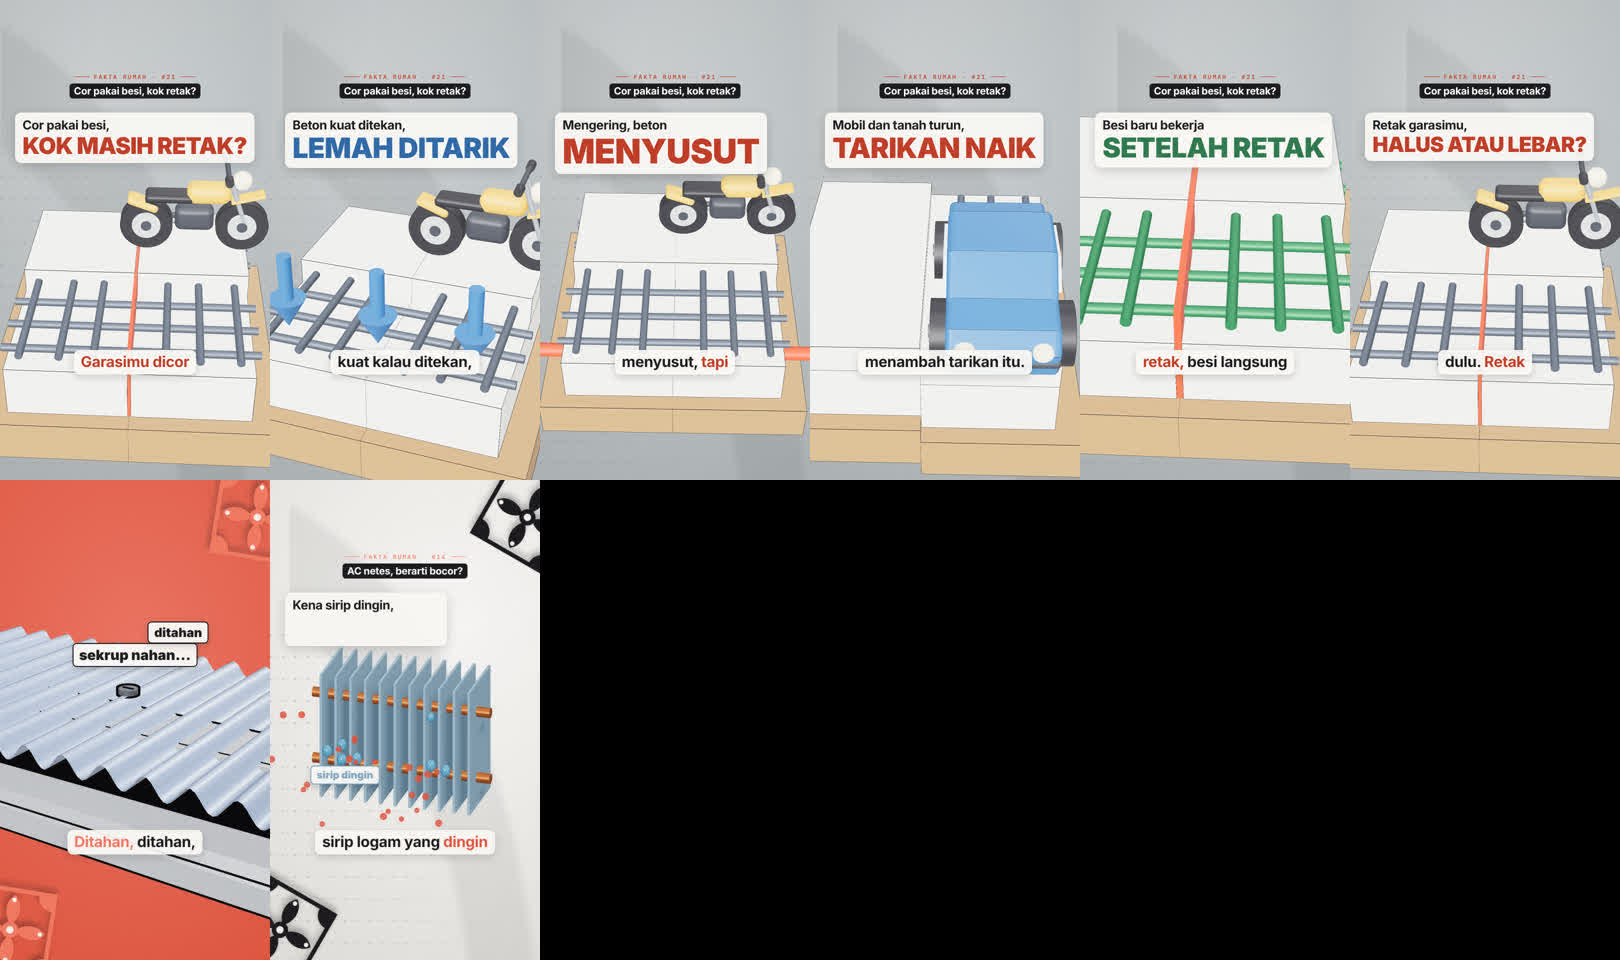
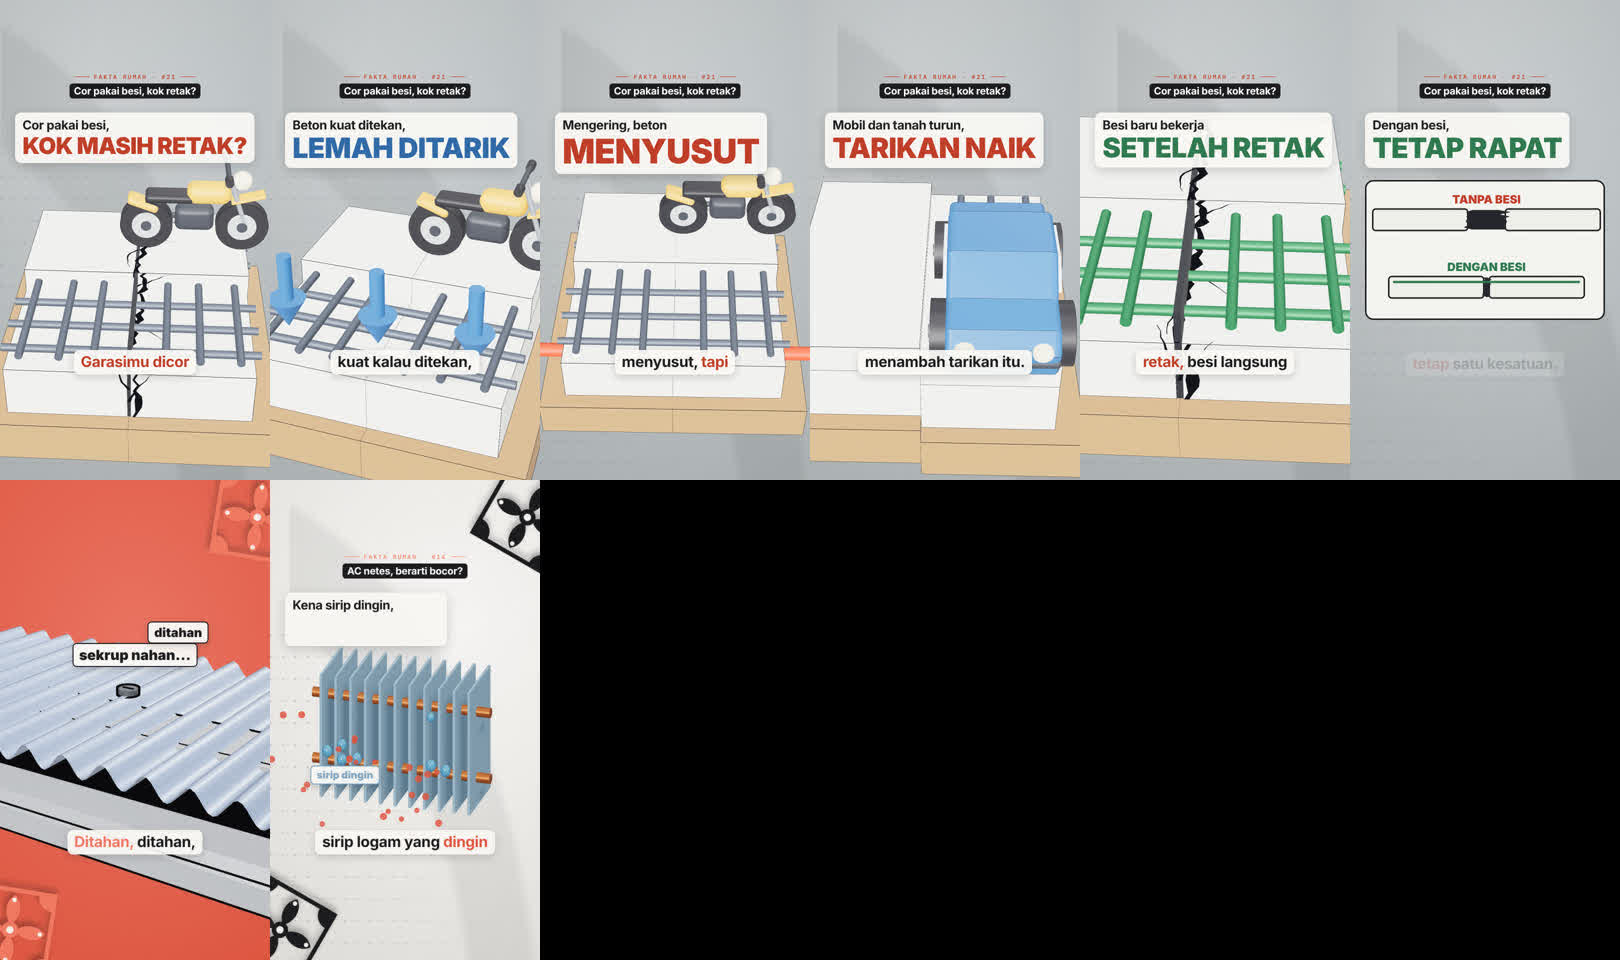
R4 #21: retak bergerigi ala retak tembok
Claude-Session: https://claude.ai/code/session_0198S32J9BVVNeoCqHWz7Xoc

Changed region(s): [[0.8333, 0.0938, 1.0, 0.5], [0.7099, 0.1562, 0.7716, 0.4062], [0.0617, 0.25, 0.0926, 0.4375]]

diff --git a/remotion/src/kit/objek/Retak.tsx b/remotion/src/kit/objek/Retak.tsx
@@ -1,0 +1,53 @@
+// Kit Penjelasan / objek: retak bergerigi ala retak tembok (R4 #21). Garis gelap berlebar berubah + cabang halus, datar (bukan tekstur foto).
+// Bentuk dibuat deterministik (tanpa Math.random) supaya sama di setiap frame.
+import {useMemo} from 'react';
+import * as THREE from 'three';
+
+const h = (i: number) => { const x = Math.sin(i * 127.1 + 311.7) * 43758.5453; return x - Math.floor(x); };
+const WARNA = '#25262b';
+
+/** poligon retak sepanjang sumbu Y dari y0 ke y1, di sekitar x = cx. w = lebar rata-rata. */
+function poligon(y0: number, y1: number, w: number, seed: number, cx = 0, amp = 0.085): THREE.Shape {
+  const n = Math.max(8, Math.round(Math.abs(y1 - y0) / 0.07));
+  let c = 0;
+  const L: [number, number][] = [], R: [number, number][] = [];
+  for (let i = 0; i <= n; i++) {
+    const k = i / n, y = y0 + (y1 - y0) * k;
+    c += (h(i + seed) - 0.5) * 0.11; c = Math.max(-amp, Math.min(amp, c * 0.92));
+    const taper = 0.45 + 0.55 * Math.sin(Math.PI * Math.min(1, 0.15 + k * 0.85));
+    const wi = Math.max(0.006, w * (0.55 + 0.9 * h(i * 3 + seed + 7)) * taper);
+    L.push([cx + c - wi / 2, y]); R.push([cx + c + wi / 2, y]);
+  }
+  const s = new THREE.Shape();
+  L.forEach(([x, y], i) => (i ? s.lineTo(x, y) : s.moveTo(x, y)));
+  R.reverse().forEach(([x, y]) => s.lineTo(x, y));
+  s.closePath();
+  return s;
+}
+/** cabang halus: dari titik (x,y) menuju arah sudut a, panjang len */
+function cabang(x: number, y: number, a: number, len: number, w: number, seed: number): THREE.Shape {
+  const n = 7, P: [number, number][] = [];
+  let px = x, py = y, ang = a;
+  for (let i = 0; i <= n; i++) { P.push([px, py]); ang += (h(i + seed) - 0.5) * 0.9; px += Math.cos(ang) * len / n; py += Math.sin(ang) * len / n; }
+  const s = new THREE.Shape();
+  P.forEach(([qx, qy], i) => { const t = 1 - i / n, ww = Math.max(0.004, w * t); (i ? s.lineTo(qx - ww / 2, qy) : s.moveTo(qx - ww / 2, qy)); });
+  [...P].reverse().forEach(([qx, qy], j) => { const i = n - j, t = 1 - i / n, ww = Math.max(0.004, w * t); s.lineTo(qx + ww / 2, qy); });
+  s.closePath();
+  return s;
+}
+
+const Bentuk: React.FC<{shape: THREE.Shape}> = ({shape}) => {
+  const geo = useMemo(() => new THREE.ShapeGeometry(shape), [shape]);
+  return <mesh geometry={geo}><meshBasicMaterial color={WARNA} side={THREE.DoubleSide} polygonOffset polygonOffsetFactor={-3} polygonOffsetUnits={-3} /></mesh>;
+};
+
+/** Satu bidang retak. bidang 'atas': permukaan datar (sumbu panjang = z dari z0 ke z1, y = tinggi). 'muka': dinding menghadap +z (sumbu panjang = y dari y0 ke y1, z = posisi). */
+export const Retak: React.FC<{g: number; bidang: 'atas' | 'muka'; a0: number; a1: number; pos: number; seed?: number}> = ({g, bidang, a0, a1, pos, seed = 1}) => {
+  const w = 0.022 + g * 1.05;
+  const utama = useMemo(() => poligon(a0, a1, w, seed), [a0, a1, w, seed]);
+  const mid = (a0 + a1) / 2, span = Math.abs(a1 - a0);
+  const cb = useMemo(() => g > 0.02 ? [cabang(0.0, a0 + (a1 - a0) * 0.35, 0.9, 0.42, 0.03, seed + 11), cabang(0.0, a0 + (a1 - a0) * 0.65, Math.PI - 0.8, 0.36, 0.026, seed + 23)] : [], [g > 0.02, a0, a1, seed]);
+  const isi = <>{<Bentuk shape={utama} />}{cb.map((c, i) => <Bentuk key={i} shape={c} />)}</>;
+  if (bidang === 'atas') return <group position={[0, pos, 0]} rotation={[-Math.PI / 2, 0, 0]}><group scale={[1, -1, 1]}>{isi}</group></group>;
+  return <group position={[0, 0, pos]}>{isi}</group>;
+};

diff --git a/remotion/src/kit/objek/Pelat.tsx b/remotion/src/kit/objek/Pelat.tsx
@@ -4,6 +4,7 @@
 import {Bx, Cy} from '../prim';
 import type {V3} from '../waktu';
 import {Mobil, Motor} from './Kendaraan';
+import {Retak} from './Retak';
 
 export const BETON = '#f1f1ec', TANAH = '#a07850', BESI = '#59616d', MOTOR = '#e9a23b'; // motor kuning-jingga (beda dari mobil biru)
 const W = 2.2, D = 2.4, HL = 0.5, HU = 0.25, SOIL = 0.4;
@@ -47,8 +48,20 @@ export const Pelat: React.FC<PelatP> = ({warna, gap = 0, glow = 0, meshY, pour =
       {/* tanah */}
       <Bx p={[-(W + 0.5) / 4, -soilH / 2 - 0.01, 0]} s={[(W + 0.5) / 2, soilH, D + 0.3]} c={TANAH} />
       <Bx p={[(W + 0.5) / 4, -soilH / 2 - 0.01 - drop, 0]} s={[(W + 0.5) / 2, soilH, D + 0.3]} c={TANAH} />
-      {/* retak: celah berwarna koral */}
-      {g > 0 && <Bx p={[0, (HL + HU) / 2 * pour - drop / 2, 0]} s={[g, (HL + HU) * pour + drop, D - 0.01]} c={warna.accent} edge={false} />}
+      {/* retak: celah gelap + retak bergerigi ala retak tembok di permukaan atas, undakan, dan muka depan (R4) */}
+      {g > 0 && <Bx p={[0, (HL + HU) / 2 * pour - drop / 2, 0]} s={[g, (HL + HU) * pour + drop, D - 0.01]} c="#25262b" edge={false} />}
+      {g > 0 && pour > 0.99 && (
+        <group>
+          {penuh ? <Retak g={g} bidang="atas" a0={-D / 2} a1={D / 2} pos={lowH + upH + 0.004} seed={3} /> : (
+            <group>
+              <Retak g={g} bidang="atas" a0={-D / 2} a1={0} pos={lowH + upH + 0.004} seed={3} />
+              <Retak g={g} bidang="atas" a0={0} a1={D / 2} pos={lowH + 0.004} seed={9} />
+              <group position={[0, 0, 0.004]}><Retak g={g} bidang="muka" a0={lowH} a1={lowH + upH} pos={0} seed={5} /></group>
+            </group>
+          )}
+          <Retak g={g} bidang="muka" a0={0} a1={lowH + (penuh ? upH : 0)} pos={D / 2 + 0.004} seed={7} />
+        </group>
+      )}
       {block(-1)}{block(1)}
       {/* jaring besi: batang sejajar x menyeberangi retak; batang sejajar z menempel di tiap blok */}
       {mesh && (

diff --git a/remotion/src/v21/Video21.tsx b/remotion/src/v21/Video21.tsx
@@ -12,11 +12,17 @@ export const V21_FRAMES = Math.ceil(V21_END * FPS);
 export const PL = PALET.batu;
 const B = (data as unknown as DataVideo).beats;
 
+// celah retak bergerigi (kiri-kanan tidak lurus), lebar rata-rata = gap
+const zig = (gap: number) => {
+  const n = 9, L: string[] = [], R: string[] = [];
+  for (let i = 0; i <= n; i++) { const y = 4 + (78 * i) / n, j = Math.sin(i * 2.3) * 5 + (i % 2 ? 4 : -4), w = Math.max(3, gap * (0.7 + 0.5 * Math.abs(Math.sin(i * 1.7)))); L.push(`${-w / 2 + j},${y}`); R.unshift(`${w / 2 + j},${y}`); }
+  return [...L, ...R].join(' ');
+};
 const Penampang: React.FC<{x: number; y: number; gap: number; besi: boolean; label: string; color: string; p: number}> = ({x, y, gap, besi, label, color, p}) => (
   <g opacity={p} transform={`translate(${x} ${y + (1 - p) * 30})`}>
     <rect x={-380 - gap / 2} y={0} width={380} height={86} rx={12} fill="#f1f1ec" stroke={INK} strokeWidth={6} />
     <rect x={gap / 2} y={0} width={380} height={86} rx={12} fill="#f1f1ec" stroke={INK} strokeWidth={6} />
-    <rect x={-gap / 2} y={4} width={gap} height={78} fill={PL.accent} opacity={0.9} />
+    <polygon points={zig(gap)} fill="#25262b" />
     {besi && <line x1={-370} y1={22} x2={370} y2={22} stroke={PL.good} strokeWidth={9} strokeLinecap="round" />}
     <text x={0} y={-22} textAnchor="middle" fontFamily="Inter" fontWeight={900} fontSize={46} fill={color}>{label}</text>
   </g>

diff --git a/checklist/v21.md b/checklist/v21.md
@@ -57,3 +57,4 @@
 - R1 (18 Nov, "oke, berikan juga seperti mobil atau motor atau benda di atas beton agar orang lebih memahami"). Tafsir: tambahkan kendaraan (motor di sisi belakang pelat sebagai penanda "ini lantai garasi", mobil penuh di beat 'sebab' yang menekan pelat) sebagai properti di atas beton; pelat tetap objek utama, kendaraan berwarna biru = beban. Status: SELESAI dikerjakan (motor tampak samping di separuh belakang pelat pada beat hook/masalah/tarik/susut/tanya; mobil masuk dan menekan pelat di beat 'sebab'; slab diturunkan di layar supaya kendaraan tidak tertutup kartu judul); menunggu ACC moodboard.
 - R2 (18 Nov, "apakah bentuk motor dan mobil bisa kamu perbaiki lebih baik lagi?"). Tafsir: kendaraan lebih mudah dikenali dan tetap gaya channel (membulat, warna datar, biru = beban): mobil berprofil samping dengan kap, kabin, kaca, lampu; motor dengan roda, garpu, setang, tangki, jok, knalpot. Status: SELESAI dikerjakan (mobil profil samping dengan kap, kabin, kaca, lampu, bumper; motor dengan roda berban, garpu, setang, lampu, tangki, jok, mesin, knalpot); menunggu ACC moodboard.
 - R3 (18 Nov, "warna mobil dan motor bedakan"). Tafsir: mobil tetap biru (beban, sama dengan panah tekan), motor diberi warna lain yang jelas beda dan masih serasi dengan palet batu: kuning-jingga `#e9a23b`. Status: SELESAI dikerjakan, menunggu ACC moodboard.
+- R4 (18 Nov, "untuk retakan buat lebih real seperti retak tembok"). Tafsir: retak digambar tidak lurus: garis bergerigi dengan lebar berubah, cabang halus, warna gelap seperti retak tembok, di permukaan atas, undakan, dan muka depan pelat; tetap gaya datar channel (bukan tekstur foto). Status: SELESAI dikerjakan (retak bergerigi gelap dengan lebar berubah + cabang halus di permukaan atas, undakan, dan muka depan; celah panel 2D juga bergerigi); menunggu ACC moodboard.
